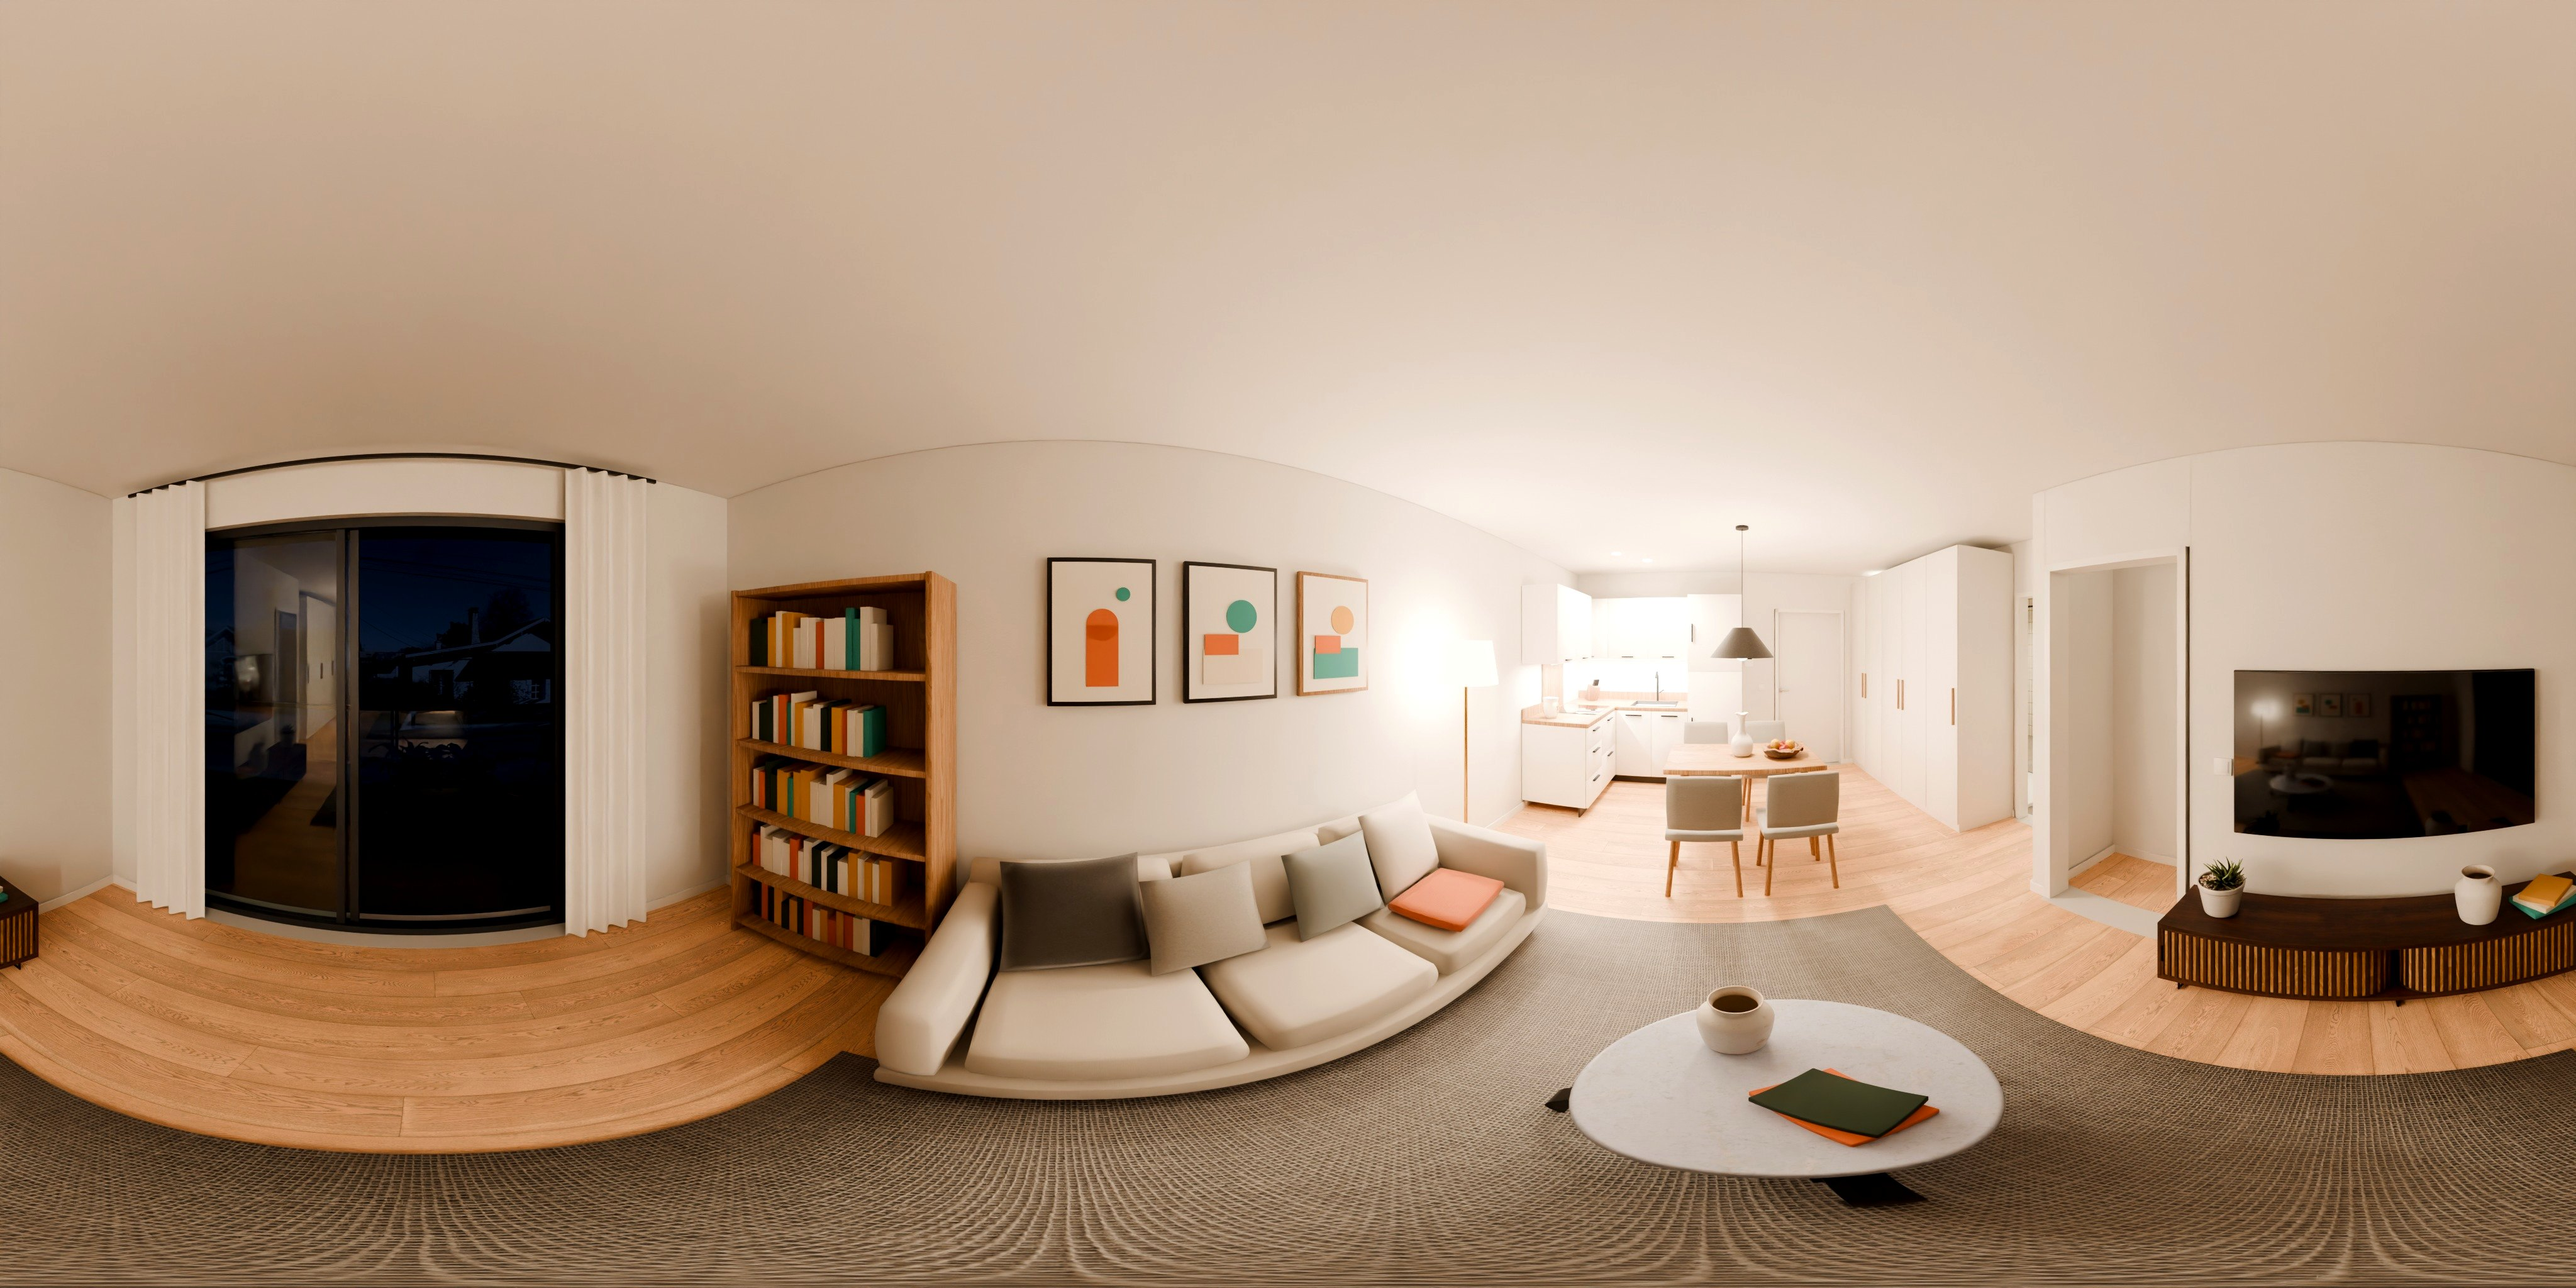
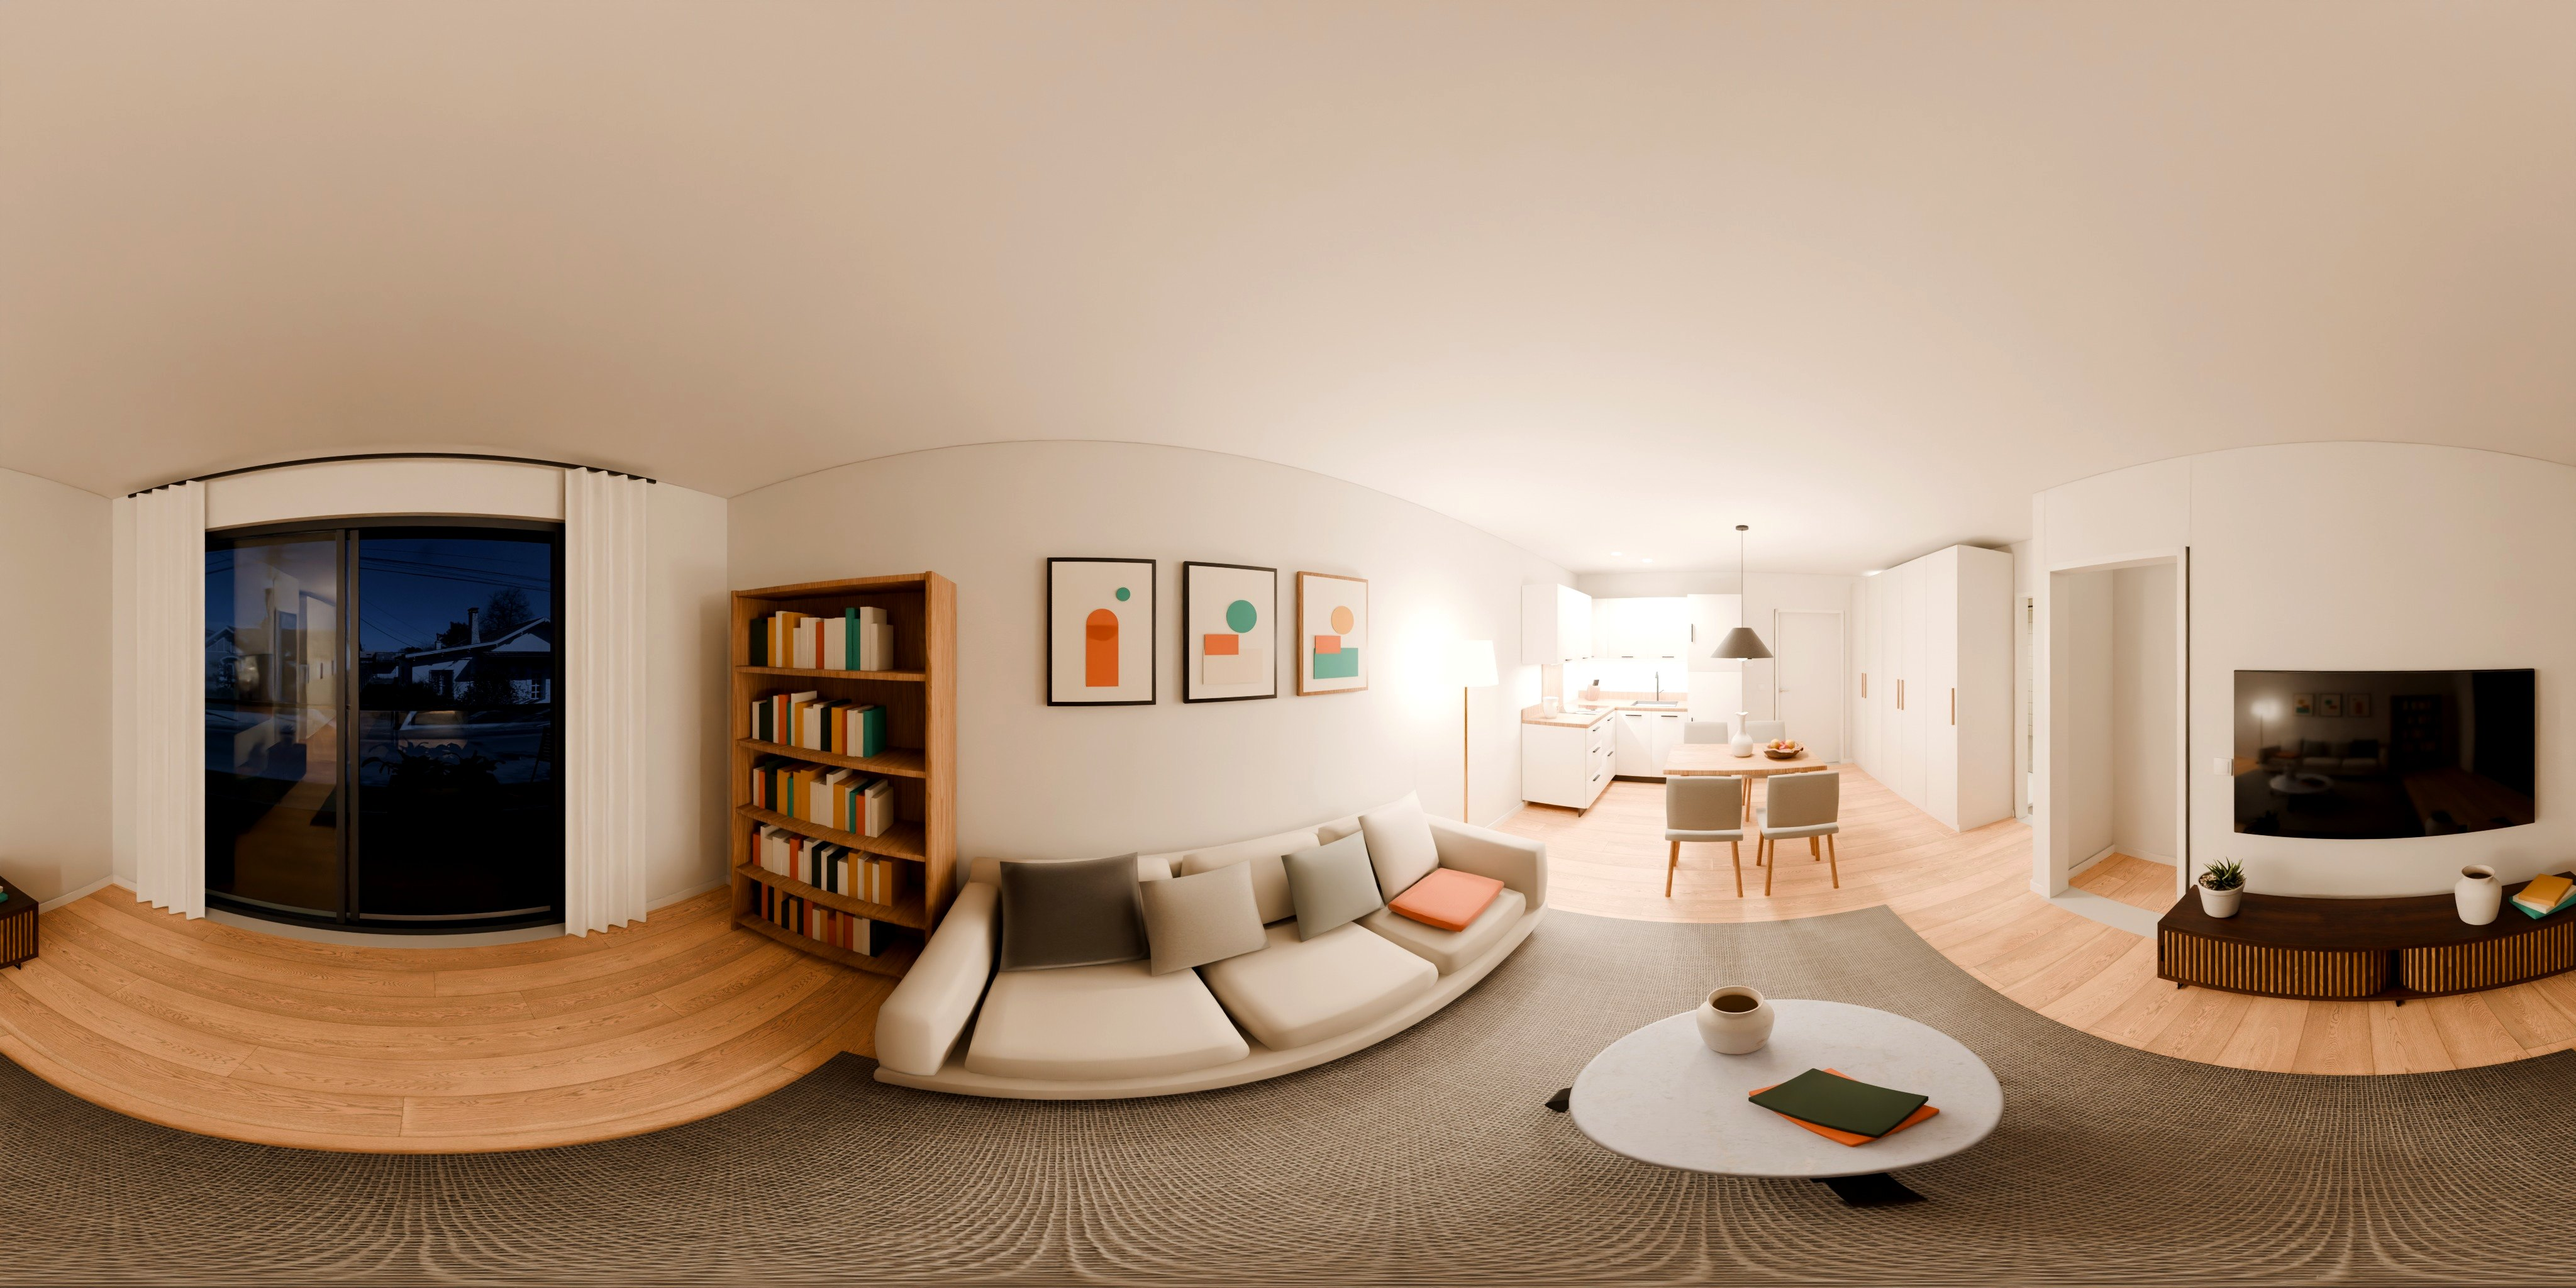
Visite 360 du T2 (controle) : nuit, rue plus claire
Claude-Session: https://claude.ai/code/session_018cp9xVKE3bpfvNfotn74r2

Changed region(s): [[0.0625, 0.4062, 0.2188, 0.5938]]

diff --git a/v/6ejrib4hgc7p1ip7/index.html b/v/6ejrib4hgc7p1ip7/index.html
@@ -17,7 +17,7 @@
 <meta name="theme-color" content="#17130f">
 <link rel="icon" href="data:,">
 <link rel="stylesheet" href="../../app/visite.css">
-<link rel="stylesheet" href="../../app360/visite360.css?v=fd69aced">
+<link rel="stylesheet" href="../../app360/visite360.css?v=935180ab">
 </head>
 <body>
 <canvas id="c" tabindex="0"></canvas>
@@ -34,6 +34,6 @@
   <small id="charge-etat"></small>
   <div class="legal" id="charge-legal">Visite indicative, non contractuelle</div>
 </div>
-<script type="module" src="../../app360/visite360.mjs?v=fd69aced"></script>
+<script type="module" src="../../app360/visite360.mjs?v=935180ab"></script>
 </body>
 </html>
